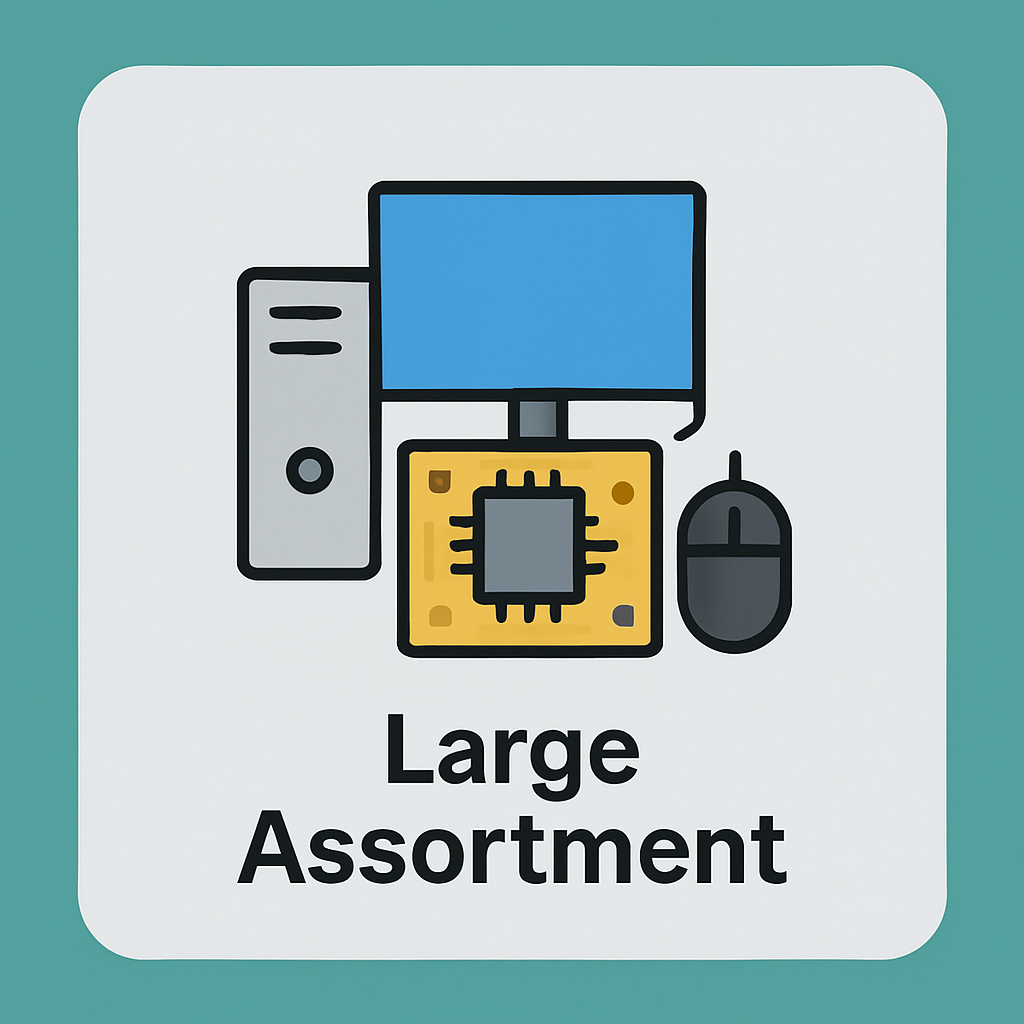
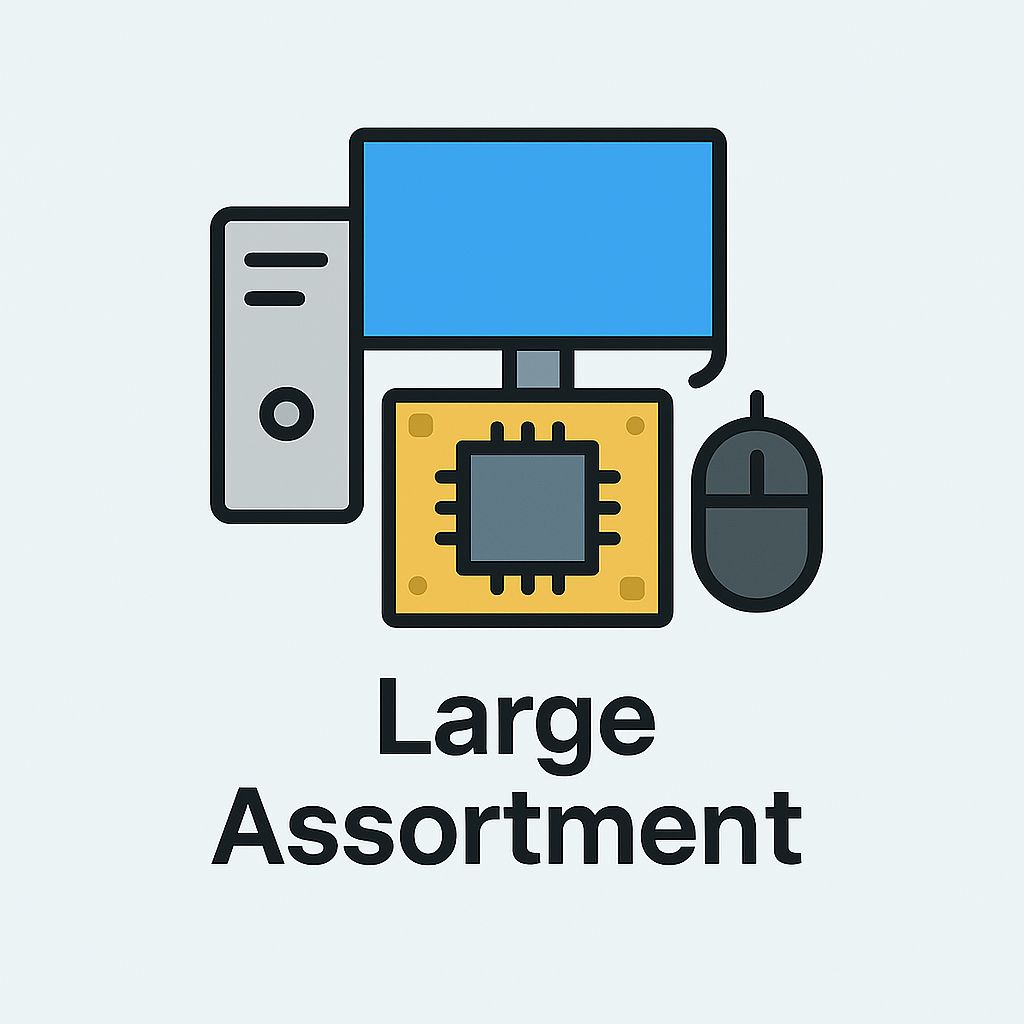
Two things added, there are the model in workbenc of DB and footer in the home page process

diff --git a/assets/css/ecomms_style.css b/assets/css/ecomms_style.css
@@ -425,18 +425,130 @@ header {
     align-items: center;
 }
 
-.features-items {
+.feature-grid {
+    display: flex;
+    gap: 32px;
+    padding: 20px;
+}
+
+.feature-card {
+    width: 240px;
+    height: 212px;
+    background-color: #edf3f5;
+    border-radius: 12px;
+    box-shadow: 0 4px 8px rgba(0, 0, 0, 0.2);
+    display: flex;
+    align-items: center;
+    justify-content: center;
+}
+
+.feature-card img {
+    width: 80%;
+    height: auto;
+}
+
+
+/**FOOTER**/
+
+.site-footer {
     width: 100%;
     position: relative;
-    max-width: 100%;
+    background-color: #c1dcdc;
+    height: 400px;
     overflow: hidden;
-    height: 212px;
+    text-align: left;
+    font-size: 18px;
+    color: rgba(30, 30, 30, 0.5);
+    font-family: Poppins, Verdana, serif;
+    display: flex;
+    justify-content: space-around;
 }
 
-.features-items > image {
-    width: 212px;
+.footer-branding {
+    position: relative;
+    top: 48px;
+    /*left: 96px;*/
+    display: flex;
+    flex-direction: column;
+    align-items: center;
+    /*justify-content: space-around;*/
+    gap: 24px;
+    color: #000;
+    font-family: Poppins, Verdana, serif;
 }
 
+.footer-column {
+    display: flex;
+    flex-direction: column;
+    align-items: flex-start;
+    justify-content: flex-start;
+    gap: 24px;
+}
+
+.footer-title {
+    position: relative;
+}
+
+.footer-description {
+    width: 189px;
+    position: relative;
+    font-weight: 500;
+    font-family: Poppins, serif;
+    color: rgba(30, 30, 30, 0.5);
+    display: inline-block;
+}
+
+.footer-description-line {
+    margin: 0;
+}
+
+.footer-socials {
+    display: flex;
+    flex-direction: row;
+    align-items: center;
+    justify-content: flex-start;
+    gap: 24px;
+}
+
+.social-icon {
+    width: 48px;
+    position: relative;
+    height: 48px;
+}
+
+.footer-links {
+    position: relative;
+    top: 48px;
+    /*left: 1013px;*/
+    display: flex;
+    flex-direction: row;
+    align-items: flex-start;
+    /*justify-content: flex-start;*/
+    gap: 48px;
+}
+
+.footer-heading {
+    position: relative;
+    color: #1e1e1e;
+}
+
+.footer-link {
+    position: relative;
+}
+
+.footer-credits {
+    position: absolute;
+    top: 325px;
+    /*left: 97px;*/
+    font-weight: 500;
+}
+
+@media screen and (max-width: 1024px) {
+    .feature-grid {
+        flex-wrap: wrap;
+        justify-content: center;
+    }
+}
 
 
 @media (max-width: 900px) {

diff --git a/includes/footer.php b/includes/footer.php
@@ -1,1 +1,35 @@
 <?php
+$path_footer_images =  "../assets/images/";
+
+?>
+<div class="site-footer">
+    <div class="footer-branding">
+        <div class="footer-column">
+            <b class="footer-title">LOGIC PERIPHERALS </b>
+            <div class="footer-description">
+                <p class="footer-description-line">We help you to fix</p>
+                <p class="footer-description-line">your device</p>
+            </div>
+        </div>
+        <div class="footer-socials">
+            <img class="social-icon" alt="" src="<?php echo $path_footer_images ?>gg_facebook.svg">
+            <img class="social-icon" alt="" src="<?php echo $path_footer_images ?>ri_instagram-fill.svg">
+            <img class="social-icon" alt="" src="<?php echo $path_footer_images ?>X.svg">
+        </div>
+    </div>
+    <div class="footer-links">
+        <div class="footer-column">
+            <b class="footer-heading">Information</b>
+            <div class="footer-link">About</div>
+            <div class="footer-link">Product</div>
+            <div class="footer-link">Blog</div>
+        </div>
+        <div class="footer-column">
+            <b class="footer-heading">Contact</b>
+            <div class="footer-link">Getting Started</div>
+            <div class="footer-link">Pricing</div>
+            <div class="footer-link">Resources</div>
+        </div>
+    </div>
+    <div class="footer-credits">2024 all Right Reserved Term of use LP-AU</div>
+</div>

diff --git a/pages/home.php b/pages/home.php
@@ -85,10 +85,18 @@ $searchPageLink = "";
 </div>
 
 <div class="features-section">
-    <div class="features-items">
-        <img src="<?php echo $path_body_images?>fast_free_shipping.png" alt="fast free shipping">
+    <div class="feature-grid">
+        <div class="feature-card">
+            <img src="<?php echo $path_body_images?>assortment.png" alt="Large Assortment">
+        </div>
+        <div class="feature-card">
+            <img src="<?php echo $path_body_images?>fast_free_shipping.png" alt="Fast & Free Shipping">
+        </div>
+        <div class="feature-card">
+            <img src="<?php echo $path_body_images?>24_7_support.png" alt="24/7 Support">
+        </div>
+        <div class="feature-card">
+            <img src="<?php echo $path_body_images?>proudly_australian.png" alt="Proudly Australian">
+        </div>
     </div>
-    <div class="features-items"></div>
-    <div class="features-items"></div>
-    <div class="features-items"></div>
 </div>
